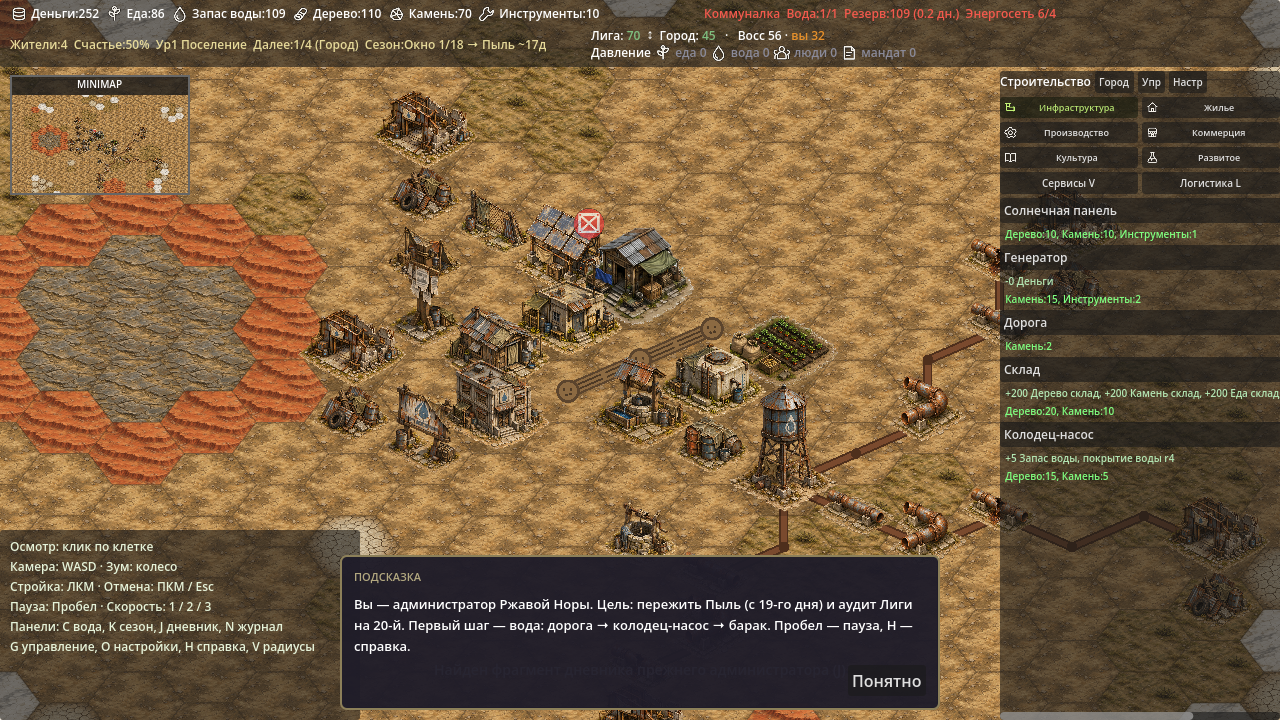
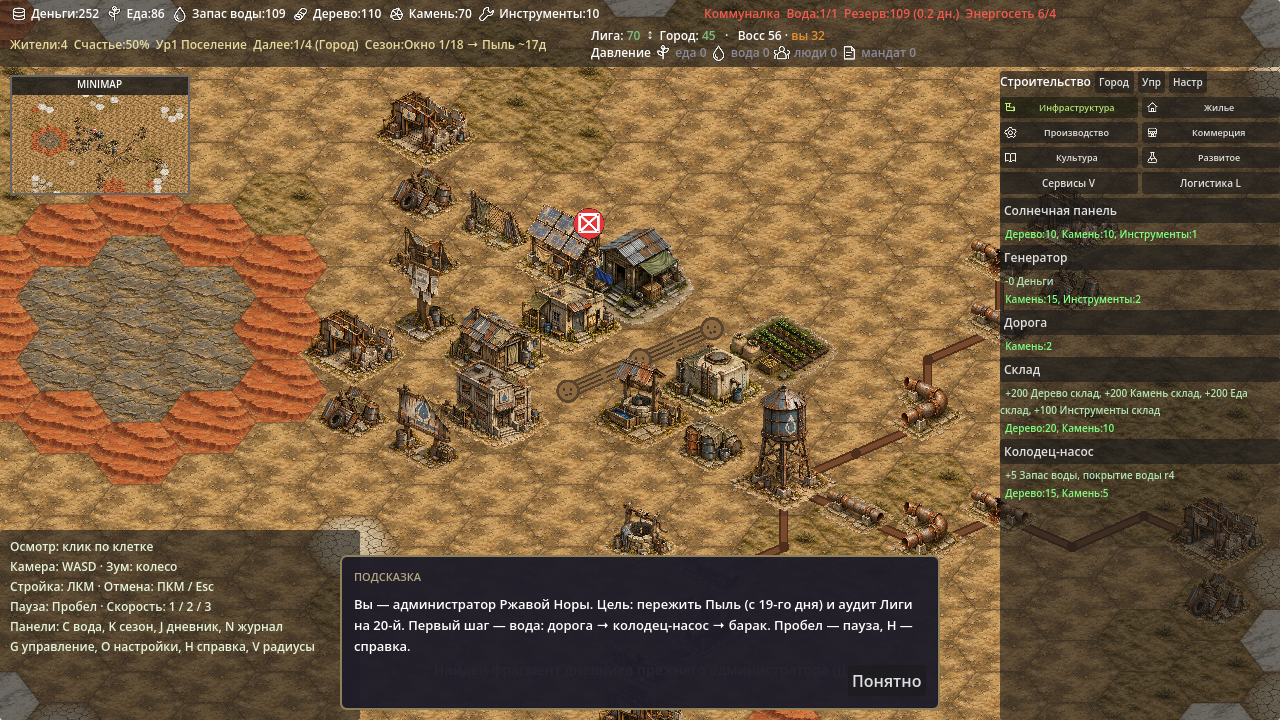
Block map clicks through UI panels and wrap building menu text

diff --git a/docs/ART_PASS_B6.md b/docs/ART_PASS_B6.md
@@ -29,6 +29,8 @@
 показатели давления. Теперь четыре блока размещены в двух строках с переносом
 текста. Меню строительства и миникарта следуют за фактической высотой панели.
 Сохранены клики по воде/сезону и переключение категорий.
+Названия, эффекты и стоимость зданий переносятся внутри меню; длинные строки
+больше не растягивают его содержимое и не требуют горизонтальной прокрутки.
 
 Четыре SVG 32×32 в `godot/assets/ui/cursors/`:
 
@@ -43,6 +45,8 @@
 как у превью и команды. Курсор устанавливается только при смене состояния;
 над UI, включая автозагружаемые панели воды/сезона/журнала, восстанавливается
 системный. Отсутствующий файл также оставляет системный курсор.
+Та же проверка попадания в UI используется для кликов: открытые панели воды,
+сезона, журнала и подсказки блокируют выбор клетки и строительство под собой.
 Новых режимов ремонта или сноса нет: R/B по-прежнему выполняют существующие
 действия над выбранным зданием. Пины P5, баланс и формат сохранений не менялись.
 
@@ -66,8 +70,14 @@ Godot --path godot --resolution 1280x720 res://tools/ui_icons_smoke.tscn -- out=
   текстовый fallback, подписи и сигналы шести категорий, обработчики клика
   по воде/сезону, курсоры осмотра/перетаскивания/доступного/занятого/недоступного
   по стоимости строительства, отмена через Escape, возврат OS-курсора над UI.
+- Реальные события мыши через `Input.parse_input_event` подтверждают, что клик
+  по панели воды не выбирает клетку, не строит и не тратит ресурсы. После закрытия
+  панели выбор и строительство вновь работают. До исправления обе проверки
+  защиты от кликов падали.
 - Геометрия HUD и полная видимость RichText проверены для RU/EN при 1280 px
   и 960 px, в узком окне — с шестизначными ресурсами и предупреждениями давления.
+- Все шесть категорий RU/EN проверены на отсутствие горизонтальной прокрутки,
+  размещение карточек по ширине меню и видимость всех строк эффектов/стоимости.
 - Проверены глазами итоговая карта, RU/EN, узкое окно и контактный лист.
 
 Первый прогон обнаружил, что одного `gui_get_hovered_control()` недостаточно
